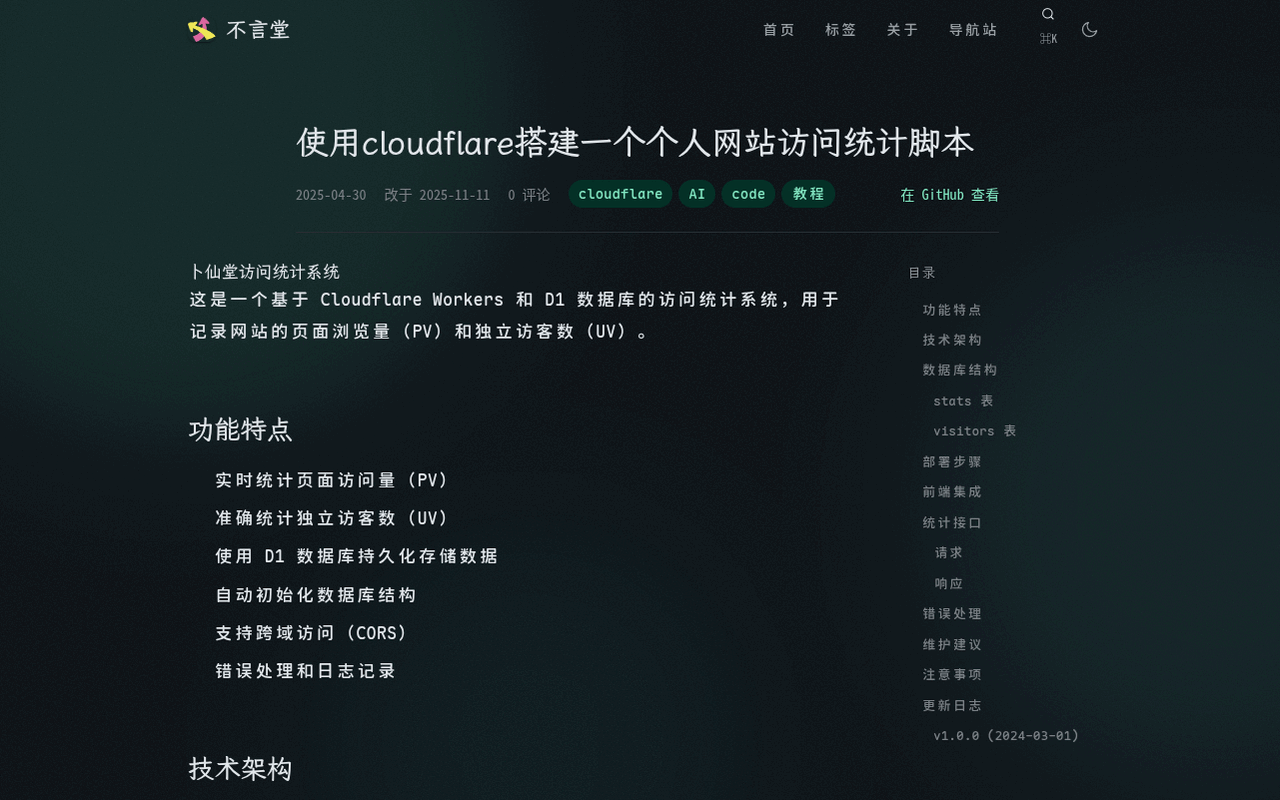
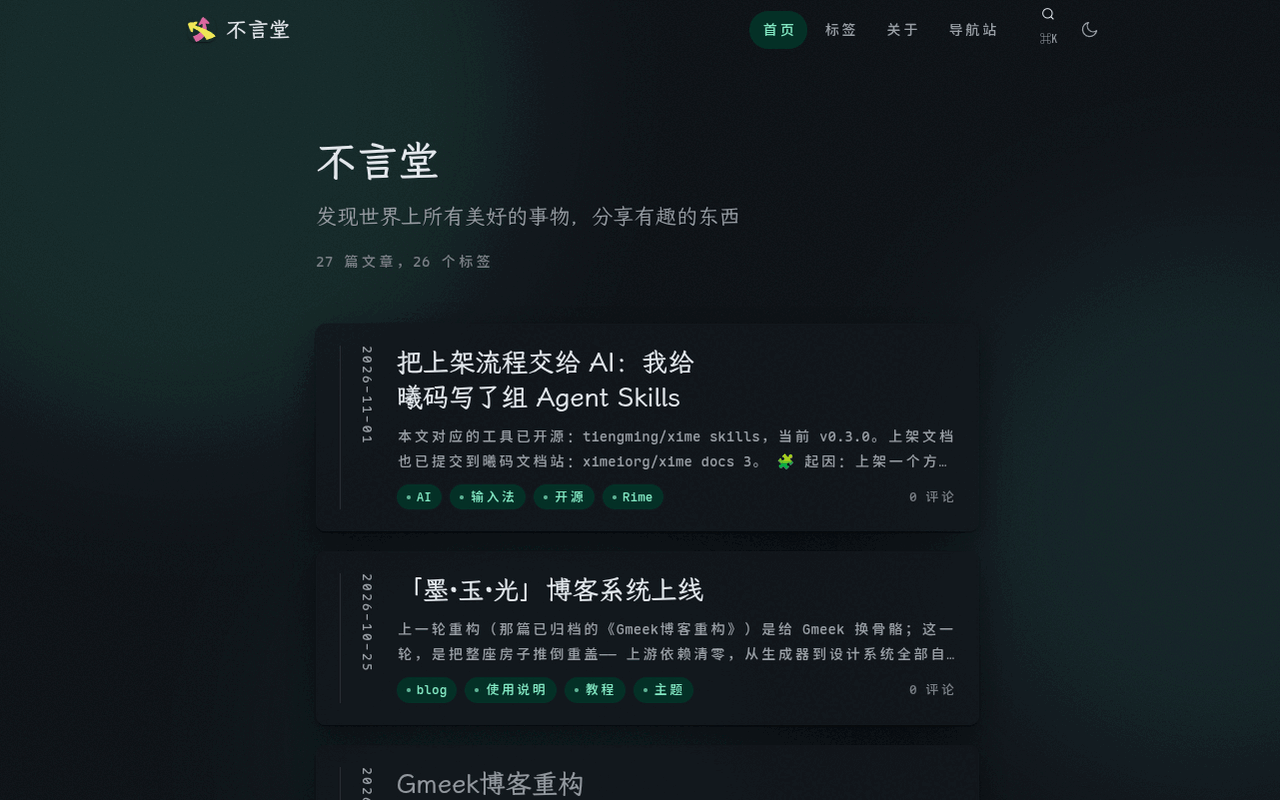
docs(assets): 截图统一改为博客首页
按所有者要求，暗色与移动端截图不再使用文章页，避免展示可能过时的正文内容。

diff --git a/docs/superpowers/plans/2026-11-01-repo-homepage.md b/docs/superpowers/plans/2026-11-01-repo-homepage.md
@@ -1,0 +1,368 @@
+# 仓库主页装修 Implementation Plan
+
+> **For agentic workers:** REQUIRED SUB-SKILL: Use superpowers:subagent-driven-development (recommended) or superpowers:executing-plans to implement this plan task-by-task. Steps use checkbox (`- [ ]`) syntax for tracking.
+
+**Goal:** 把 `tiengming/tiengming.github.io` 的仓库主页改造成一个「一眼看懂、愿意 Use this template」的模板项目门面。
+
+**Architecture:** 首屏用本地真实构建产出的截图 + banner 建立第一印象，README 首屏只承担「是什么 / 长什么样 / 几步能用」，详细文档保留在后半部分；仓库元信息（topics、description、LICENSE、社交预览图）补齐可信度信号。不改站点代码。
+
+**Tech Stack:** Astro 7 静态站点（`npm run build`）、GitHub Markdown、`gh` CLI、shields.io 静态徽章。
+
+**Spec:** `docs/specs/2026-11-01-repo-homepage-design.md`
+
+## Global Constraints
+
+- 不修改 `src/`、`scripts/`、`astro.config.mjs`、`.github/workflows/`。
+- 视觉资产只放 `.github/assets/`，不得放进 `public/`（避免被发布到站点）。
+- 图片：单张 < 400KB，五张总计 < 2MB；尺寸必须精确（见各任务）。
+- README 中的命令必须与 `package.json` 一致：`npm run dev` / `build` / `preview` / `test` / `sync`。
+- README 中的链接只用仓库内相对路径或官方 URL，不引入短链。
+- 视觉沿用 `DESIGN.md`：墨底（`oklch(0.165 0.012 258)`）、玉青点缀、展示字 LXGW WenKai。
+- 不新增 npm 依赖。
+
+## Review Focus
+
+- **图片路径大小写错误** → README 在 GitHub 上显示破图；Task 3 用脚本校验所有相对图片路径存在且大小写一致。
+- **截图与站点不符**（暗色截图其实是亮色、移动截图不是移动布局）→ Task 1 逐张目检并记录首屏内容，Task 6 复核。
+- **徽章指向不存在的 workflow 或分支** → Task 3 校验每个徽章 URL 返回 200。
+- **LICENSE 署名/年份与 README 不一致** → Task 4 用 `grep` 对照。
+- **首屏过长或特性夸大** → Task 3 限制首屏 ≤ 60 行，六条特性逐条对应仓库内真实文件/脚本；Task 6 复核。
+
+---
+
+### Task 1: 构建站点并截取三张真实截图
+
+**Files:**
+- Create: `.github/assets/screenshot-light.png`（1280×800）
+- Create: `.github/assets/screenshot-dark.png`（1280×800）
+- Create: `.github/assets/screenshot-mobile.png`（390×844）
+
+**Interfaces:**
+- Produces: 三张 PNG 的路径与尺寸，供 Task 2、Task 3 引用。
+
+- [ ] **Step 1: 安装依赖并构建**
+
+```bash
+cd /home/tieng/project/tiengming.github.io
+npm install
+npm run build
+```
+
+Expected: 构建成功，`dist/` 生成，`dist/index.html` 存在。
+
+- [ ] **Step 2: 起本地静态服务**
+
+```bash
+cd dist && python3 -m http.server 4321
+```
+
+Expected: `http://127.0.0.1:4321/` 返回 200。
+
+- [ ] **Step 3: 截亮色首页**
+
+用浏览器把视口设为 1280×800、主题切到浅色，打开 `/`，截图保存为 `.github/assets/screenshot-light.png`。
+画面必须包含站名、文章卡片列表和顶栏。
+
+- [ ] **Step 4: 截暗色首页**
+
+切到暗色主题，保持在首页 `/`，同样 1280×800 截图，保存为 `.github/assets/screenshot-dark.png`。
+画面必须包含站名与文章卡片。
+
+- [ ] **Step 5: 截移动端首页**
+
+视口设为 390×844（移动），保持在首页 `/`，截图保存为 `.github/assets/screenshot-mobile.png`。
+
+- [ ] **Step 6: 校验尺寸与体积**
+
+```bash
+cd /home/tieng/project/tiengming.github.io
+file .github/assets/*.png
+du -h .github/assets/*.png
+```
+
+Expected: 尺寸分别 1280×800、1280×800、390×844；每张 < 400KB。
+
+- [ ] **Step 7: 提交**
+
+```bash
+git add .github/assets/screenshot-*.png
+git commit -m "docs(assets): 添加 README 站点截图（亮/暗/移动）"
+```
+
+---
+
+### Task 2: 制作 banner 与社交预览图
+
+**Files:**
+- Create: `.github/assets/banner.png`（1280×320）
+- Create: `.github/assets/social-preview.png`（1280×640）
+
+**Interfaces:**
+- Consumes: Task 1 的 `screenshot-light.png`（社交预览图左侧取景）。
+- Produces: 两张 PNG，供 Task 3（README 头图）与最终交接（社交预览图上传）使用。
+
+- [ ] **Step 1: 写 banner 源文件**
+
+在 `/tmp/xime-banner/banner.html` 写一个 1280×320 的页面：墨色底（`oklch(0.165 0.012 258)`）、左下角玉青径向光斑、主标题「不言堂」、副标题「用 Issues 写文章 · 用 Astro 建站」、右下角小字 `code.buxiantang.top`。字体栈优先 `LXGW WenKai`。
+
+- [ ] **Step 2: 截图并校验**
+
+用浏览器以 1280×320 视口打开该文件，截图为 `.github/assets/banner.png`。
+
+```bash
+file .github/assets/banner.png
+```
+
+Expected: `1280 x 320`。
+
+- [ ] **Step 3: 合成社交预览图**
+
+在 `/tmp/xime-banner/social.html` 中：1280×640，左侧 620px 放 `screenshot-light.png`（等比缩放到高度 640 后裁切），右侧放站名 + 一句话 + `code.buxiantang.top`，背景与 banner 同色。截图保存为 `.github/assets/social-preview.png`。
+
+- [ ] **Step 4: 校验体积**
+
+```bash
+du -h .github/assets/banner.png .github/assets/social-preview.png
+file .github/assets/social-preview.png
+```
+
+Expected: `1280 x 640`；两张均 < 400KB。
+
+- [ ] **Step 5: 提交**
+
+```bash
+git add .github/assets/banner.png .github/assets/social-preview.png
+git commit -m "docs(assets): 添加仓库 banner 与社交预览图"
+```
+
+---
+
+### Task 3: 重写 README 首屏
+
+**Files:**
+- Modify: `README.md`（第 1-40 行左右的首屏；后半部分保留）
+
+**Interfaces:**
+- Consumes: `.github/assets/banner.png`、三张截图、`social-preview.png` 的路径。
+- Produces: README 首屏结构，后续任务引用其中的「许可」章节。
+
+- [ ] **Step 1: 写首屏**
+
+把 `README.md` 开头替换为以下结构（标题与顺序固定，措辞可微调但不得改变信息项）：
+
+```markdown
+![不言堂 · Astro issue 博客模板](.github/assets/banner.png)
+
+# 不言堂 · Astro issue 博客模板
+
+用 GitHub Issues 写文章，Astro 7 静态构建，零前端运行时框架。
+
+[![Deploy](https://img.shields.io/github/actions/workflow/status/tiengming/tiengming.github.io/blog.yml?branch=main&label=build)](https://github.com/tiengming/tiengming.github.io/actions/workflows/blog.yml)
+[![Astro 7](https://img.shields.io/badge/Astro-7-ff5d01)](https://astro.build)
+[![Node 22](https://img.shields.io/badge/Node-22-5fa04e)](https://nodejs.org)
+[![License MIT](https://img.shields.io/badge/license-MIT-3da639)](./LICENSE)
+
+**[🌐 在线演示](https://code.buxiantang.top)** ·
+**[🚀 Use this template](https://github.com/tiengming/tiengming.github.io/generate)** ·
+**[🎨 设计说明](DESIGN.md)**
+
+| 亮色 | 暗色 |
+|---|---|
+| ![](./.github/assets/screenshot-light.png) | ![](./.github/assets/screenshot-dark.png) |
+
+<p align="center"><img src="./.github/assets/screenshot-mobile.png" width="280" alt="移动端"></p>
+
+## 特性
+
+- **Issue 即文章**：新建 issue 就是发文，标题即标题，标签即分类
+- **零前端框架**：Astro 7 静态输出，首屏不加载任何 UI 框架
+- **中文搜索**：Pagefind 索引，⌘K 全文搜索支持中文分词
+- **评论复用**：utterances 直接复用文章 issue 的评论串
+- **完整输出**：RSS 全文、站点地图、结构化数据、明暗三态主题
+- **旧站兼容**：`legacy/` 自动为旧 Gmeek 链接生成重定向
+
+## 三步部署
+
+1. **Use this template** 创建仓库（建议 `你的名字.github.io`）
+2. 改 [`src/config/site.ts`](src/config/site.ts)：站名、域名、导航、评论仓
+3. Settings → Pages → Source 选 **GitHub Actions**，新建一篇 issue 触发首次构建
+```
+
+- [ ] **Step 2: 校验首屏行数与链接**
+
+```bash
+awk 'NR<=60' README.md | wc -l
+grep -oE '\]\(\./[^)]+\)|\]\(\.github/[^)]+\)|src="\./[^"]+"' README.md
+```
+
+Expected: 首屏 ≤ 60 行；所有相对路径都能 `test -f` 通过（图片与 `DESIGN.md`、`src/config/site.ts`）。
+
+- [ ] **Step 3: 校验徽章 URL**
+
+```bash
+for u in \
+  "https://img.shields.io/github/actions/workflow/status/tiengming/tiengming.github.io/blog.yml?branch=main&label=build" \
+  "https://img.shields.io/badge/Astro-7-ff5d01" \
+  "https://img.shields.io/badge/Node-22-5fa04e" \
+  "https://img.shields.io/badge/license-MIT-3da639"; do
+  curl -s -o /dev/null -w "%{http_code} $u\n" "$u"
+done
+```
+
+Expected: 四个都返回 `200`。
+
+- [ ] **Step 4: 保留后半部分并接入许可**
+
+确认原有章节（用 issue 写文章、模块配置速查、自定义外观、本地开发、结构）仍在；把「许可」章节改为引用 `LICENSE`（MIT）。
+
+- [ ] **Step 5: 提交**
+
+```bash
+git add README.md
+git commit -m "docs(readme): 重做首屏，突出演示、截图与三步部署"
+```
+
+---
+
+### Task 4: 添加 MIT LICENSE
+
+**Files:**
+- Create: `LICENSE`
+- Modify: `README.md`（「许可」章节）
+
+**Interfaces:**
+- Consumes: README 的「许可」章节。
+- Produces: 仓库根 LICENSE，GitHub 侧栏自动显示 MIT。
+
+- [ ] **Step 1: 写 LICENSE**
+
+标准 MIT 文本，首行 `MIT License`，版权行：
+
+```text
+Copyright (c) 2024-2026 Tiengming
+```
+
+- [ ] **Step 2: 校验一致**
+
+```bash
+head -3 LICENSE
+grep -n "MIT\|LICENSE" README.md | head
+```
+
+Expected: LICENSE 含 `MIT License` 与 `2024-2026 Tiengming`；README 许可段落写明 MIT 且链接到 `./LICENSE`。
+
+- [ ] **Step 3: 提交**
+
+```bash
+git add LICENSE README.md
+git commit -m "docs: 添加 MIT 许可证并更新 README 许可说明"
+```
+
+---
+
+### Task 5: 补齐仓库元信息
+
+**Files:** 无（仅 GitHub API 元数据）
+
+**Interfaces:**
+- Consumes: 无。
+- Produces: 仓库 topics 与 description，供仓库主页展示。
+
+- [ ] **Step 1: 设置 topics**
+
+```bash
+gh api -X PUT repos/tiengming/tiengming.github.io/topics \
+  -f names[]=astro -f names[]=blog-template -f names[]=github-issues \
+  -f names[]=static-site -f names[]=pagefind -f names[]=tailwindcss \
+  -f names[]=rss -f names[]=chinese
+```
+
+- [ ] **Step 2: 压缩 description**
+
+```bash
+gh api -X PATCH repos/tiengming/tiengming.github.io \
+  -f description="用 GitHub Issues 写文章的 Astro 7 博客模板：零前端框架、中文搜索、RSS 全文、一键部署"
+```
+
+- [ ] **Step 3: 校验**
+
+```bash
+gh api repos/tiengming/tiengming.github.io --jq '{description, topics, homepage, license: .license.spdx_id}'
+```
+
+Expected: `topics` 含 8 个值；`homepage` 仍为 `https://code.buxiantang.top`；`license` 为 `MIT`（LICENSE 推送后生效，可能延迟）。
+
+---
+
+### Task 6: 全量校验与提交推送
+
+**Files:** 无新增。
+
+**Interfaces:**
+- Consumes: Task 1-5 的全部产物。
+
+- [ ] **Step 1: 校验资产**
+
+```bash
+cd /home/tieng/project/tiengming.github.io
+file .github/assets/*.png
+du -ch .github/assets/*.png | tail -1
+```
+
+Expected: 五张尺寸正确；总计 < 2MB。
+
+- [ ] **Step 2: 校验 README 链接与图片**
+
+```bash
+python3 - <<'PY'
+import re, pathlib
+text = pathlib.Path("README.md").read_text(encoding="utf-8")
+paths = re.findall(r'!\[[^\]]*\]\(([^)]+)\)', text) + re.findall(r'src="([^"]+)"', text)
+missing = [p for p in paths if not p.startswith("http") and not pathlib.Path(p.lstrip("./")).exists()]
+print("missing:", missing)
+PY
+```
+
+Expected: `missing: []`。
+
+- [ ] **Step 3: 校验没有改到代码**
+
+```bash
+git diff --name-only origin/main...HEAD
+```
+
+Expected: 只含 `README.md`、`LICENSE`、`.github/assets/*.png`、`docs/specs/*`、`docs/superpowers/plans/*`。
+
+- [ ] **Step 4: 推送并确认渲染**
+
+```bash
+git push origin <branch>
+```
+
+推送后打开仓库主页，确认：banner 显示、三张截图正常、徽章为绿色、右侧出现 MIT 许可。
+
+- [ ] **Step 5: 交接社交预览图**
+
+告诉所有者：Settings → Social preview → Upload an image，上传 `.github/assets/social-preview.png`（GitHub 无 API）。
+
+---
+
+### Task 7: 执行后自查（对照评审重点）
+
+**Files:** 无。
+
+- [ ] **Step 1: 逐条复核 Review Focus**
+
+```bash
+# 1 图片路径大小写
+grep -oE '\.github/assets/[A-Za-z0-9._-]+' README.md | sort -u
+ls .github/assets
+# 2 截图内容目检：亮/暗/移动三张与站点当前状态一致
+# 3 徽章 URL 200（Task 3 Step 3 已跑，重跑一次）
+# 4 LICENSE 与 README 一致
+head -1 LICENSE; grep -n "MIT" README.md
+# 5 首屏行数
+awk 'NR<=60' README.md | wc -l
+```
+
+Expected: 文件名完全一致；三张截图观感正确；徽章全 200；许可一致；首屏 ≤ 60 行。
